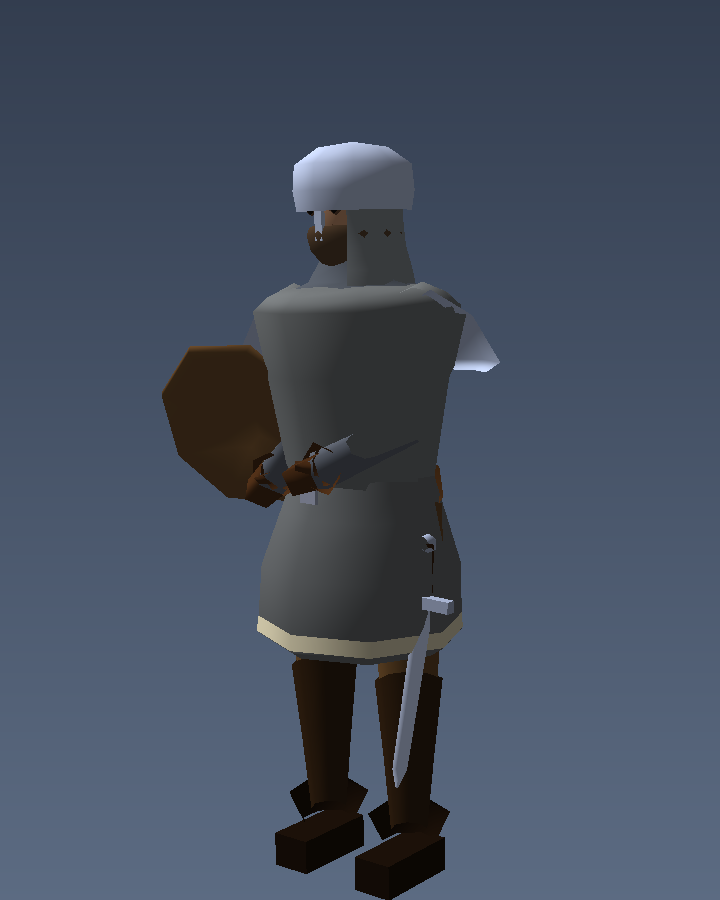
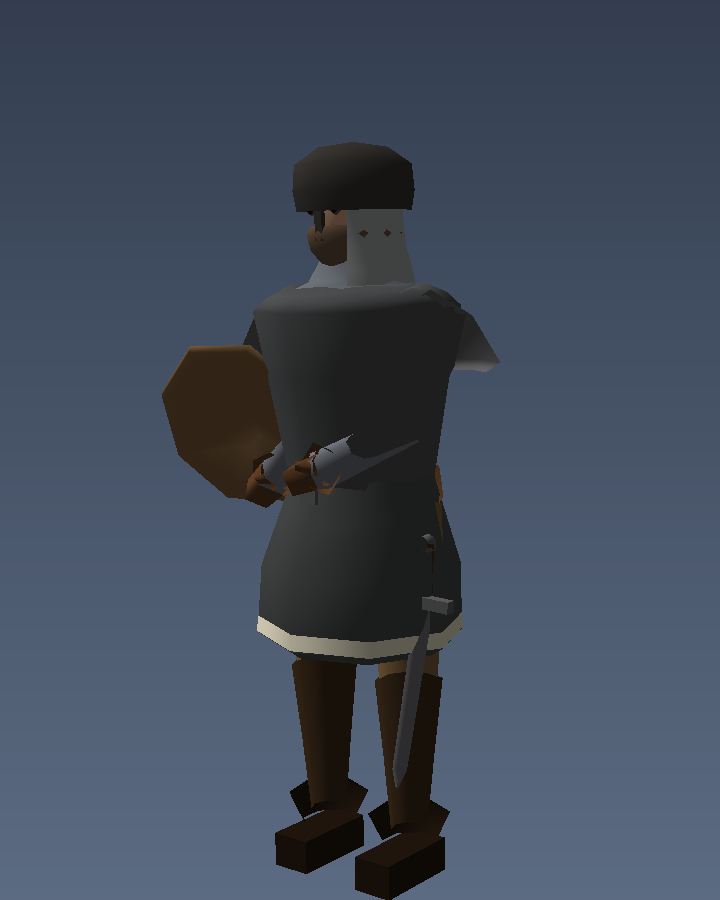
rig: armour becomes iron; monk's robe ridges stop poking out of his waist
The white helmets were three separate bugs stacked:
 1. the plate shader hard-coded its steel albedo and DISCARDED the authored
    colour, so every helmet and pauldron was identical bright grey;
 2. the previewer multiplied the material tint in TWICE, and plate's tint was
    >1, so plate came out bright before a light ray touched it;
 3. buildHelm re-declared IRON/STEEL/BRIGHT as locals with the old bright
    numbers, shadowing the shared palette -- which is why the great helm
    stayed white after everything else went dark.
Authored value now drives metalness and roughness, so blackened iron is dull
and polished plate is bright. Kettle/nasal = dull iron, barbute/cone = milled
steel, great helm = the one polished piece. Mail body colour 0.62 -> 0.34.

Monk: the two 'fold ridges' ran from chest to y 0.24, BELOW the robe's hem at
0.13, so their lower third was outside the garment -- two sticks out of his
waist. They now stop above the hem and sit on the robe's own radius.

diff --git a/imperial-crown-v6/src/gfx/rig/wardrobe.js b/imperial-crown-v6/src/gfx/rig/wardrobe.js
@@ -37,6 +37,19 @@ export const MAT = {
   WOOL: 9
 };
 
+/* ---------------- IRON, THE SHARED PALETTE ----------------------
+   Plate was authored at 0.62-0.86 in a dozen places, and the plate shader
+   used to discard the value anyway -- so every rivet, pauldron, shield boss
+   and helmet in the rig was the same bright laboratory steel. Now that the
+   shader derives metalness and roughness FROM the authored value, these
+   numbers decide the whole look of the armour, so they live in one place and
+   run from blackened iron to polished plate. Nothing in this file should
+   write a raw plate colour again. */
+export const IRON = [0.21, 0.20, 0.19];      /* blackened, mass-issue */
+export const STEEL = [0.36, 0.36, 0.37];     /* milled, the usual */
+export const BRIGHT = [0.52, 0.53, 0.56];    /* polished, for the elite */
+export const WEAPON = [0.44, 0.44, 0.46];    /* blade and haft fittings */
+
 /* ------------------------------------------------------------
    Heads
    ------------------------------------------------------------ */
@@ -70,6 +83,46 @@ export function buildHelm(g, m, kind, age = 3, opts = {}) {
      on Z, so they were narrower front-to-back than the head inside them.
      --------------------------------------------------------------- */
   const HELM_CLEAR = 1.16;
+  /* ---------------- IRON, NOT WHITE --------------------------------
+     Every helmet in this file was authored at 0.66-0.72 in all three
+     channels, and the plate shader then ignored the authored colour anyway
+     and drew a hard-coded 0.62/0.64/0.68. The result was a rig full of
+     identical bright white helmets that read as plastic against a dark
+     figure, which is the single most-cited criticism of these renders.
+
+     Real armour of the period is mostly IRON: dark, warm, and dull, with
+     polished plate reserved for the money. These are the three finishes:
+       IRON    blackened, rough, the cheap foot soldier's helmet
+       STEEL   milled and middling -- what most of the roster wears
+       BRIGHT  polished, for the elite and the ceremony
+     The plate shader derives metalness and roughness from the authored
+     value, so these are the only numbers that need to change to change a
+     finish. */
+  /* These three are the MODULE-SCOPE values at the top of this file. They
+     were re-declared here as local consts with the old bright numbers still
+     in them, which shadowed the shared palette: the whole file went dark
+     except the great helm, whose shell is the one surface that reads its
+     tone through this table. Two copies of a named constant is one copy too
+     many. */
+  /* Which finish a helm gets, by kind. Anything not listed wears STEEL. */
+  const HELM_TONE = {
+    kettle: IRON,      /* mass-issue: the cheapest helmet there is */
+    nasal: IRON,
+    cone: STEEL,
+    barbute: STEEL,
+    great: BRIGHT,     /* the lord's own, and it is the age-IV silhouette */
+    turban: IRON,
+    hood: IRON
+  };
+  /* The finish for this helm. Falls back to steel for anything unlisted. */
+  const tone = HELM_TONE[kind] || STEEL;
+  /** Set the plate material to this helm's iron. Every MAT.PLATE call in
+   *  buildHelm goes through here, so a helm cannot be half white. */
+  const plate = (k = 1) => g.material(MAT.PLATE).color(
+    tone[0] * k, tone[1] * k, tone[2] * k);
+  /* Start every helm on its own finish. */
+  if (kind === 'hood' || kind === 'turban') g.material(MAT.LINEN).color(0.55, 0.50, 0.44);
+  else plate();
   const SQX = HEAD_X * 1.06;
   const SQZ = 1.10 * 1.06;
 
@@ -132,9 +185,8 @@ export function buildHelm(g, m, kind, age = 3, opts = {}) {
       ], { seg: g.seg(0), squash: [SQX, SQZ],
            arc: AVENTAIL_ARC, arcStart: AVENTAIL_START });
     }
-    g.material(kind === 'hood' || kind === 'turban' ? MAT.LINEN : MAT.PLATE);
-    g.color(kind === 'hood' ? 0.55 : 0.70, kind === 'hood' ? 0.50 : 0.72,
-      kind === 'hood' ? 0.44 : 0.76);
+    if (kind === 'hood' || kind === 'turban') g.material(MAT.LINEN).color(0.55, 0.50, 0.44);
+    else plate();
   };
 
   /* A mail curtain over the JAW, for the open-faced steel helms.
@@ -153,9 +205,8 @@ export function buildHelm(g, m, kind, age = 3, opts = {}) {
       [hr * 1.06, toY]
     ], { seg: g.seg(1), squash: [SQX, SQZ],
          arc: Math.PI * 0.92, arcStart: Math.PI * 0.5 - Math.PI * 0.46 });
-    g.material(kind === 'hood' || kind === 'turban' ? MAT.LINEN : MAT.PLATE);
-    g.color(kind === 'hood' ? 0.55 : 0.70, kind === 'hood' ? 0.50 : 0.72,
-      kind === 'hood' ? 0.44 : 0.76);
+    if (kind === 'hood' || kind === 'turban') g.material(MAT.LINEN).color(0.55, 0.50, 0.44);
+    else plate();
   };
 
   if (kind === 'hood') {
@@ -371,7 +422,7 @@ export function buildHelm(g, m, kind, age = 3, opts = {}) {
         [hr * 1.18 * HELM_CLEAR * 0.78, SIGHT_HI],
         [hr * 1.06 * HELM_CLEAR * 0.74, SIGHT_HI + hr * 0.30]
       ], { seg: g.seg(0), squash: [SQX + 0.02, SQZ * 1.06] });
-      g.material(MAT.PLATE).color(0.70, 0.72, 0.76);
+      plate();
       /* A brow ridge over the slit, so it is shadowed and so the steel above
          it does not read as a smooth continuation of the steel below. */
       g.lathe(B.HEAD, [
@@ -414,7 +465,7 @@ export function buildHelm(g, m, kind, age = 3, opts = {}) {
                arc: bw, arcStart: ba - bw * 0.5 });
         }
       }
-      g.material(MAT.PLATE).color(0.70, 0.72, 0.76);
+      plate();
     }
     return;
   }
@@ -620,7 +671,7 @@ export function buildPauldrons(g, m) {
   for (const side of [-1, 1]) {
     const SHO = side < 0 ? B.SHOULDER_L : B.SHOULDER_R;
     const sx = side * x(m.armX);
-    g.material(MAT.PLATE).color(0.68, 0.70, 0.74);
+    g.material(MAT.PLATE).color(STEEL[0], STEEL[1], STEEL[2]);
     /* A LATHE, not a cut sphere, and that is the whole fix for the jagged
        grey-and-brown shards on every armoured shoulder.
 
@@ -688,7 +739,7 @@ export function buildBelt(g, m) {
   ], { seg: g.seg(2), squash: [1.0, cd / sw] });
   /* buckle: a small plate on the front, which is what stops the band
      reading as a painted stripe */
-  g.material(MAT.PLATE).color(0.62, 0.62, 0.64);
+  g.material(MAT.PLATE).color(STEEL[0], STEEL[1], STEEL[2]);
   g.slab(B.SKIRT, [0, y(1.005), x(0.196) * cd / sw], [0.052, 0.048, 0.012]);
 }
 
@@ -790,7 +841,7 @@ export function buildTwoHandedAxe(g, m, opts = {}) {
   g.tube(UPRIGHT, butt, top, 0.016, 0.018,
     { seg: g.detail === 0 ? 5 : 4, rings: 1 });
   /* the butt spike: a haft that ends in an open pipe reads as a broken prop */
-  g.material(MAT.PLATE).color(0.44, 0.46, 0.50);
+  g.material(MAT.PLATE).color(IRON[0], IRON[1], IRON[2]);
   g.tube(UPRIGHT, butt, [butt[0] - u[0] * 0.05, butt[1] - u[1] * 0.05, butt[2] - u[2] * 0.05],
     0.020, 0.011, { seg: 4, rings: 1 });
 
@@ -801,7 +852,7 @@ export function buildTwoHandedAxe(g, m, opts = {}) {
   const side = hi[0] >= 0 ? 1 : -1;
   const hx = top[0] + side * 0.085;
   const socketTop = [top[0], top[1] + 0.02, top[2]];
-  g.material(MAT.PLATE).color(0.66, 0.68, 0.72);
+  g.material(MAT.PLATE).color(BRIGHT[0], BRIGHT[1], BRIGHT[2]);
   g.tube(UPRIGHT, [socketTop[0], socketTop[1] + 0.055, socketTop[2]],
     [socketTop[0], socketTop[1] - 0.055, socketTop[2]], 0.034, 0.030,
     { seg: 4, rings: 1 });
@@ -820,18 +871,18 @@ export function buildTwoHandedAxe(g, m, opts = {}) {
      So: a slab with its height on Y and its thin axis on Z, plus a second
      slab raked back to make the bearded lower horn. Two boxes, 24
      triangles, and the silhouette is an axe from every side. */
-  g.material(MAT.PLATE).color(0.66, 0.68, 0.72);
+  g.material(MAT.PLATE).color(BRIGHT[0], BRIGHT[1], BRIGHT[2]);
   const bladeX = socketTop[0] + side * 0.105;
   /* the main plate: 210 mm tall, 105 mm out, 18 mm thick */
   g.slab(UPRIGHT, [socketTop[0] + side * 0.052, socketTop[1] - 0.01, socketTop[2]],
     [0.105, 0.210, 0.018], { rot: 0 });
   /* the cutting edge: a thinner plate standing proud of the main one, at the
      outer end, so the edge catches light separately from the cheek */
-  g.material(MAT.PLATE).color(0.86, 0.88, 0.91);
+  g.material(MAT.PLATE).color(BRIGHT[0] * 1.15, BRIGHT[1] * 1.15, BRIGHT[2] * 1.15);
   g.slab(UPRIGHT, [bladeX, socketTop[1] - 0.01, socketTop[2]],
     [0.026, 0.225, 0.010], { rot: 0 });
   /* the beard: the lower horn, raked back toward the haft */
-  g.material(MAT.PLATE).color(0.66, 0.68, 0.72);
+  g.material(MAT.PLATE).color(BRIGHT[0], BRIGHT[1], BRIGHT[2]);
   g.slab(UPRIGHT, [socketTop[0] + side * 0.058, socketTop[1] - 0.145, socketTop[2]],
     [0.098, 0.130, 0.017], { rot: side * 0.30 });
 }
@@ -861,7 +912,7 @@ export function buildSword(g, hand, pos, len, opts = {}) {
        is less than one. */
     g.tube(UPRIGHT, [pos[0], pos[1] + grip * 0.55, pos[2]],
       [pos[0], pos[1] - grip * 0.55, pos[2]], 0.020, 0.019, { seg: 4, rings: 1 });
-    g.material(MAT.PLATE).color(0.62, 0.64, 0.68);
+    g.material(MAT.PLATE).color(STEEL[0], STEEL[1], STEEL[2]);
     g.ellipsoid(UPRIGHT, [pos[0], pos[1] + grip * 0.58, pos[2]],
       [0.030, 0.026, 0.030], { sph: [4, 3] });
   }
@@ -880,7 +931,7 @@ export function buildSword(g, hand, pos, len, opts = {}) {
      unarmed from every angle but the one you are not looking at. Angling it
      OUT and FORWARD puts the whole blade against the background. */
   const tip = [pos[0] + out * len * 0.20, top - len * 0.94, pos[2] + len * 0.52];
-  g.material(MAT.PLATE).color(0.80, 0.82, 0.86);
+  g.material(MAT.PLATE).color(WEAPON[0], WEAPON[1], WEAPON[2]);
   /* 3 cm at the base over a 40 cm blade. At 4.2 cm the parallel section
      was as wide as a forefinger and the thing read as a paddle or a
      feather rather than a sword. */
@@ -929,14 +980,14 @@ export function buildSpear(g, hand, pos, len = 1.9) {
   g.tube(UPRIGHT, [botX, botY, botZ], [topX, topY, topZ],
     0.015, 0.017, { seg: g.detail === DETAIL.NEAR ? 5 : 4, rings: 1 });
   /* BUTT CAP, so the shaft is not an open tube resting on the ground. */
-  g.material(MAT.PLATE).color(0.40, 0.42, 0.46);
+  g.material(MAT.PLATE).color(IRON[0], IRON[1], IRON[2]);
   g.tube(UPRIGHT, [botX, botY, botZ], [botX, botY + 0.055, botZ], 0.021, 0.017,
     { seg: 4, rings: 1 });
   /* THE HEAD: a winged spear tip with a socket, and a team-coloured tassel
      below it. The tassel is the Age of Empires signature on a spear and it is
      four triangles -- it reads as a coloured accent at gameplay distance even
      when the blade itself is one pixel wide. */
-  g.material(MAT.PLATE).color(0.78, 0.80, 0.84);
+  g.material(MAT.PLATE).color(WEAPON[0], WEAPON[1], WEAPON[2]);
   g.tube(UPRIGHT, [topX, topY, topZ], [topX, topY + 0.10, topZ], 0.021, 0.024,
     { seg: 4, rings: 1 });                       /* socket */
   g.blade(UPRIGHT, [topX, topY + 0.10, topZ], [topX, topY + 0.44, topZ],
@@ -947,7 +998,7 @@ export function buildSpear(g, hand, pos, len = 1.9) {
   g.material(MAT.TRIM).color(0.90, 0.88, 0.80);
   g.tube(UPRIGHT, [topX, topY + 0.055, topZ], [topX + 0.012, topY - 0.09, topZ + 0.012],
     0.026, 0.016, { seg: 4, rings: 1 });
-  g.material(MAT.PLATE).color(0.78, 0.80, 0.84);
+  g.material(MAT.PLATE).color(WEAPON[0], WEAPON[1], WEAPON[2]);
 }
 
 /** A bow, held in the off hand. A curved stave, not a straight stick. */
@@ -1007,7 +1058,7 @@ export function buildTool(g, hand, pos, kind) {
   const bottom = [pos[0], pos[1] - 0.40, pos[2]];
   g.tube(UPRIGHT, top, bottom, 0.015, 0.017, { seg: 4, rings: 1 });
   if (g.detail > DETAIL.MID) return;
-  g.material(MAT.PLATE).color(0.62, 0.63, 0.66);
+  g.material(MAT.PLATE).color(STEEL[0], STEEL[1], STEEL[2]);
   if (kind === 'axe' || kind === 'pick') {
     /* A head at the top, offset perpendicular to the haft -- and just under
        it, not beside it: a slab centred on the haft's own axis swallowed the

diff --git a/imperial-crown-v6/src/gfx/rig/unitShaders.js b/imperial-crown-v6/src/gfx/rig/unitShaders.js
@@ -216,6 +216,10 @@ void main() {
   float metalness = 0.0;
   float roughness = 0.85;
   float ao = 1.0;
+  /* Specular is tinted by the surface by default; the plate branch lowers
+     the gain and lets the metal tint its own reflection. */
+  vec3 specTint = vec3(1.0);
+  float specGain = 1.0;
   /* wp is the pattern plane. It must follow the surface, not the ground. */
   vec3 nrm = normalize(vNormal);
   vec2 wp = triUV(vWorld, nrm);
@@ -301,13 +305,50 @@ void main() {
     float p = mix(brush, 0.18, border);
     /* age tier lives in the packed word: bits 12+ are the age (1..4) */
     float ageTier = floor(fract(vPack.y / 4096.0) * 16.0);
-    vec3 steel = vec3(0.62, 0.64, 0.68) * (0.70 + p * 0.55);
+    /* THE AUTHORED COLOUR IS THE STEEL.
+       This block used to build the albedo out of a hard-coded
+       vec3(0.62, 0.64, 0.68) and throw away whatever the wardrobe had
+       written -- so every helmet, every pauldron and every shield boss in the
+       game was the same bright laboratory steel, which is why they read as
+       white plastic against a dark figure. Real armour of the period is
+       largely iron: dark, warm, and mostly not shiny. The authored colour now
+       drives the metal, so a class can ask for bright polished plate or for
+       blackened iron and get it.
+       The value is normalised to the metal's own luminance and the enamel is
+       rebuilt from HUE with a fixed, believable saturation ceiling -- a
+       brown-grey iron must not come out as brown paint. */
+    float steelL = dot(albedo, vec3(0.299, 0.587, 0.114));
+    /* A little warmth is added to the hue and the saturation is clamped, so
+       an authored colour that is nearly neutral still reads as metal rather
+       than as flat clay, while a deliberately dark one stays dark. */
+    vec3 tint = mix(vec3(steelL), albedo, 0.55);
+    vec3 steel = tint * (0.70 + p * 0.55);
     albedo = mix(steel, vec3(0.92, 0.72, 0.30), rivet * 0.85);
     /* Imperial gold trim: gilded panel borders from Age III up. */
     float gild = smoothstep(2.5, 3.5, ageTier) * border;
     albedo = mix(albedo, vec3(0.95, 0.76, 0.34) * (0.8 + brush * 0.5), gild * 0.8);
-    metalness = 0.85;
-    roughness = mix(0.30, 0.16, rivet);
+    /* FINISH FOLLOWS THE AUTHORED VALUE: bright plate is polished, dark
+       iron is dull and rough. That single coupling is what makes a helmet
+       look forged rather than moulded, and it costs nothing -- the numbers
+       are already in the vertex.
+       NOTE: the rig shots pass a white team tint, and this material is not
+       team-dyed, so the authored colour is what a viewer sees. */
+    float plish = smoothstep(0.30, 0.80, steelL);
+    metalness = mix(0.45, 0.92, plish);
+    roughness = mix(0.62, 0.22, plish) - rivet * 0.10;
+    /* THE SPECULAR WAS THE WHITE, NOT THE ALBEDO.
+       With the authored colour respected, a bright-polished helm (0.66)
+       still rendered as a white blob -- because the specular term is
+       uSunColor * spec * sh * cl * 1.3, ADDED to a metal already at 0.66,
+       at 1.5x metalness weight and with a roughness that a smooth dome walks
+       straight through. Every convex surface facing the key light clips to
+       white, and a helmet is the most convex thing on the figure.
+       Metal does not add a broad white highlight on top of its own colour;
+       its reflection is TINTED by the metal. So the specular is now
+       multiplied by the albedo and its weight is cut, which is both more
+       physical and the actual fix. */
+    specTint = albedo / max(steelL, 0.12);
+    specGain = mix(0.30, 0.62, plish);
   } else if (mat == MAT_SKIN) {
     float v = hash12(floor(wp * 220.0));
     albedo *= 0.94 + v * 0.12;
@@ -360,7 +401,9 @@ void main() {
   float spec = pow(nh, mix(8.0, 96.0, 1.0 - roughness)) * mix(0.06, 1.5, metalness);
 
   vec3 color = albedo * (uSunColor * ndl * sh * cl * 1.25 + ambient);
-  color += uSunColor * spec * sh * cl * 1.3;
+  /* specTint and specGain are set by the plate branch; everything else gets
+     the old untinted highlight at its old weight. */
+  color += uSunColor * spec * sh * cl * 1.3 * specGain * specTint;
 
   /* Team colour on cloth: take the HUE from the team, the VALUE from the
      garment, and the weave's luminance variation from the cloth itself, so a

diff --git a/imperial-crown-v6/src/gfx/rig/classes.js b/imperial-crown-v6/src/gfx/rig/classes.js
@@ -390,12 +390,41 @@ export const CLASSES = {
       /* Two fold ridges down the front of the robe. A lathe can only shade
          by its own slope, and a near-vertical profile has almost none, so
          without something breaking the face the front is one flat tone.
-         Off-centre and unequal: a symmetric pair reads as armour. */
+         Off-centre and unequal: a symmetric pair reads as armour.
+
+         THEY STOP AT THE HEM, AND THEY SIT ON THE ROBE'S SURFACE.
+         They ran from y 1.16 all the way to y 0.24, which is BELOW the
+         robe's own hem at y 0.13 -- so the lower third of each ridge was
+         outside the garment, and what a viewer saw was two brown sticks
+         hanging out of the monk's waist down past his knees. The z was also
+         a flat 0.255 against a robe whose front surface at that height is
+         nearer 0.19, i.e. the ridges stood proud of the cloth by a third of
+         their own radius for their whole length.
+         So: end them 60 mm above the hem where the robe is still wide
+         enough to carry them, and derive the z from the robe's own radius at
+         each end rather than pinning it. */
       if (g.detail < DETAIL.FAR) {
-        for (const [fx, fz, r] of [[-0.085, 0.255, 0.028], [0.115, 0.235, 0.019]]) {
-          g.tube(B.SKIRT, [m.x(fx), m.y(1.16), fz * m.cd / m.sw],
-            [m.x(fx * 1.30), m.y(0.24), fz * m.cd / m.sw * 1.25], r, r * 0.85,
-            { seg: 4, rings: 1 });
+        /* the robe's profile, as (height, radius) -- see the lathe above */
+        const robeR = (yy) => {
+          if (yy >= m.y(1.26)) return 0.232 + (0.244 - 0.232) * (yy - m.y(1.26)) / (m.y(1.466) - m.y(1.26));
+          if (yy >= m.y(0.92)) return 0.246 + (0.232 - 0.246) * (yy - m.y(0.92)) / (m.y(1.26) - m.y(0.92));
+          return 0.278 + (0.246 - 0.278) * (yy - m.y(0.52)) / (m.y(0.92) - m.y(0.52));
+        };
+        for (const [fx, r] of [[-0.42, 0.026], [0.55, 0.017]]) {
+          const yTop = m.y(1.14);
+          const yBot = m.y(0.30);
+          /* x is a FRACTION of the robe's radius, so the ridge follows the
+             garment's taper instead of running straight past it */
+          const px = (yy) => m.x(fx * robeR(yy) / m.sw);
+          /* 0.94 was still proud of the cloth. `cd/sw` scales the lathe's
+             Z radius, so the robe's front surface at height yy is
+             robeR(yy) * cd/sw, and a ridge centred there has HALF its own
+             radius outside the garment -- which renders as a rod lying on
+             the robe, not a fold in it. Sunk to 0.80 the ridge's outer edge
+             clears the surface by about a centimetre, which is a fold. */
+          const pz = (yy) => robeR(yy) * m.cd / m.sw * 0.80;
+          g.tube(B.SKIRT, [px(yTop), yTop, pz(yTop)], [px(yBot), yBot, pz(yBot)],
+            r, r * 0.8, { seg: 4, rings: 1 });
         }
       }
 

diff --git a/imperial-crown-v6/src/gfx/rig/rigs.js b/imperial-crown-v6/src/gfx/rig/rigs.js
@@ -149,7 +149,13 @@ export function buildHumanoid(g, prop, def, opts = {}) {
        at any distance -- the cataphract's chest was indistinguishable from
        the man-at-arms' padded jacket. */
     bodyCol: def.bodyCol || (def.bareChest ? skin
-      : (def.mailedBody ? [0.62, 0.61, 0.57]
+      /* MAIL IS DARK. This was 0.62/0.61/0.57 -- a light warm grey -- and
+         the mail material then adds its own ring pattern on top at up to
+         full luminance, so every mailed torso, arm and leg clipped to a pale
+         near-white that read as a white plastic cuirass. Mail in the period
+         is blackened or blued iron with a dark sheen; the rings catch light,
+         the garment does not. */
+      : (def.mailedBody ? [0.34, 0.34, 0.33]
         : (def.woolBody || [0.78, 0.76, 0.70])))
   };
   const m = buildBody(g, prop, bodyOpts);
